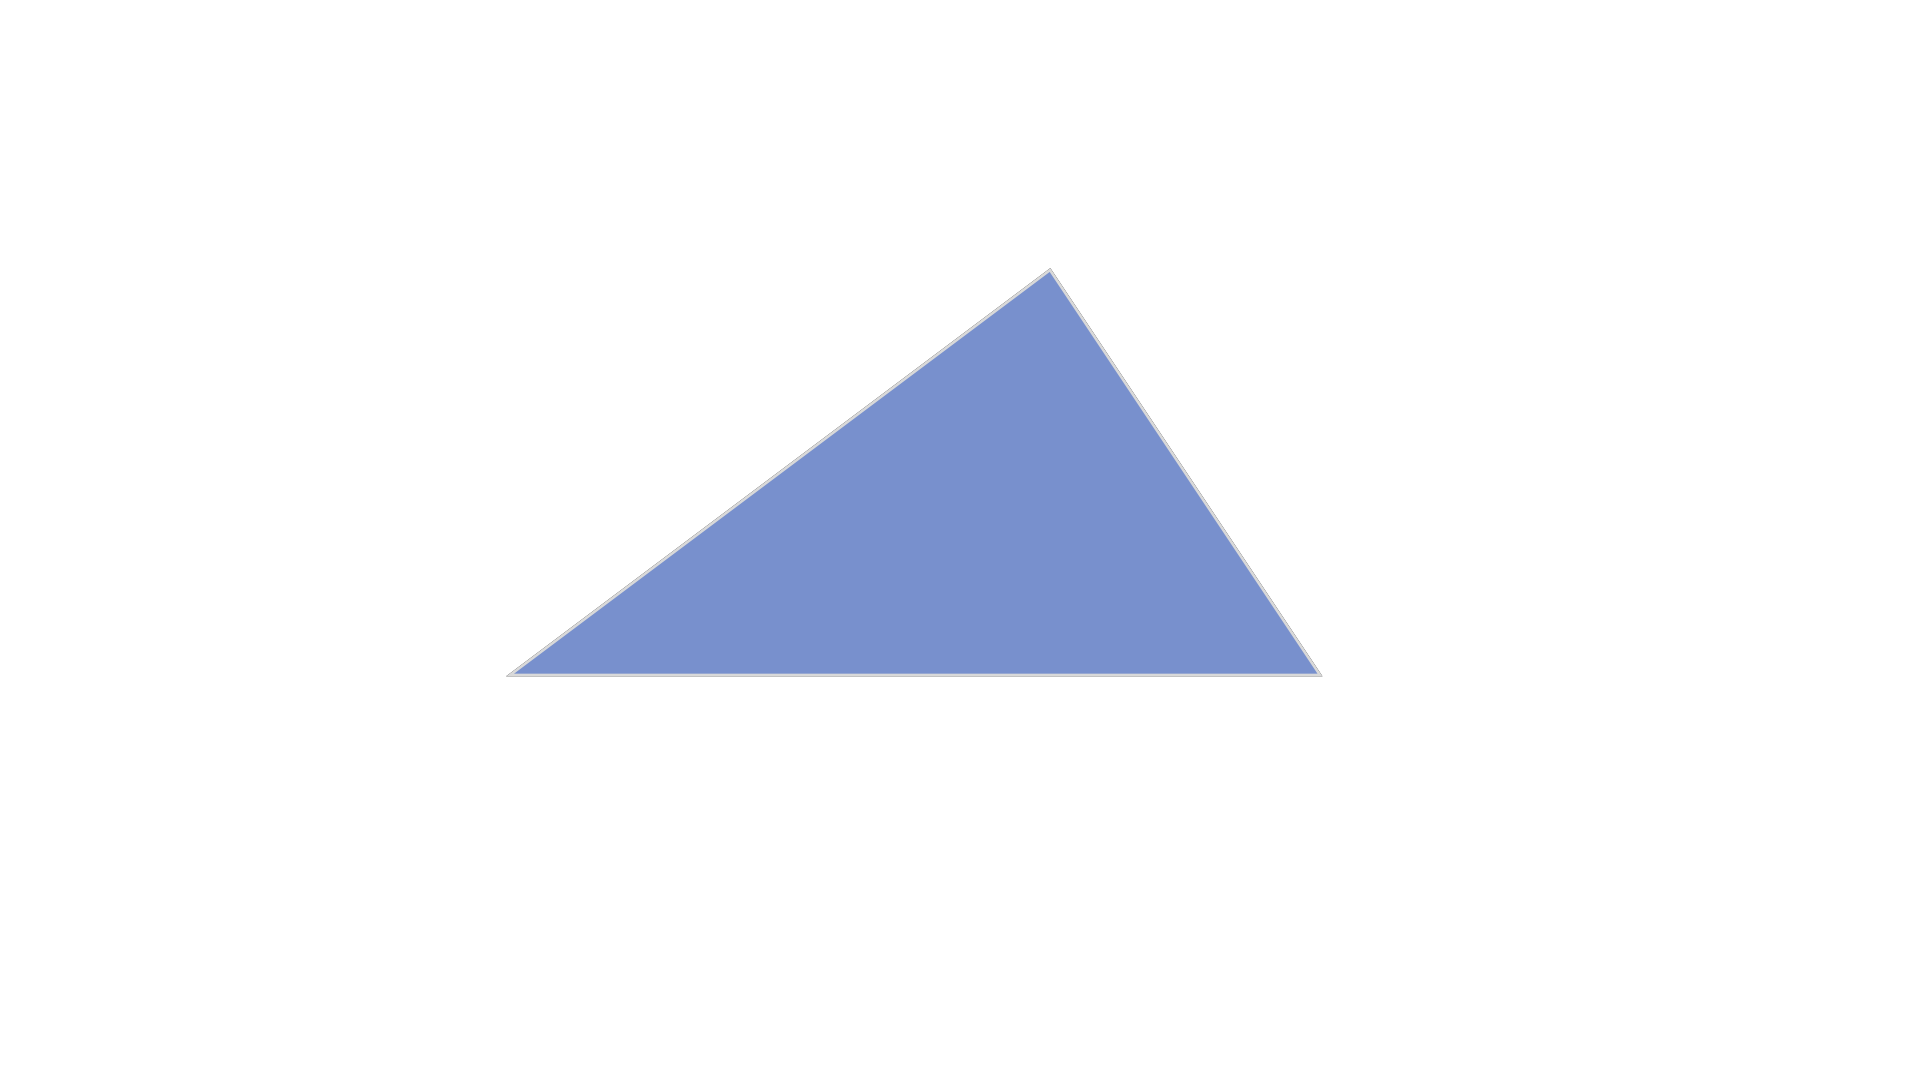
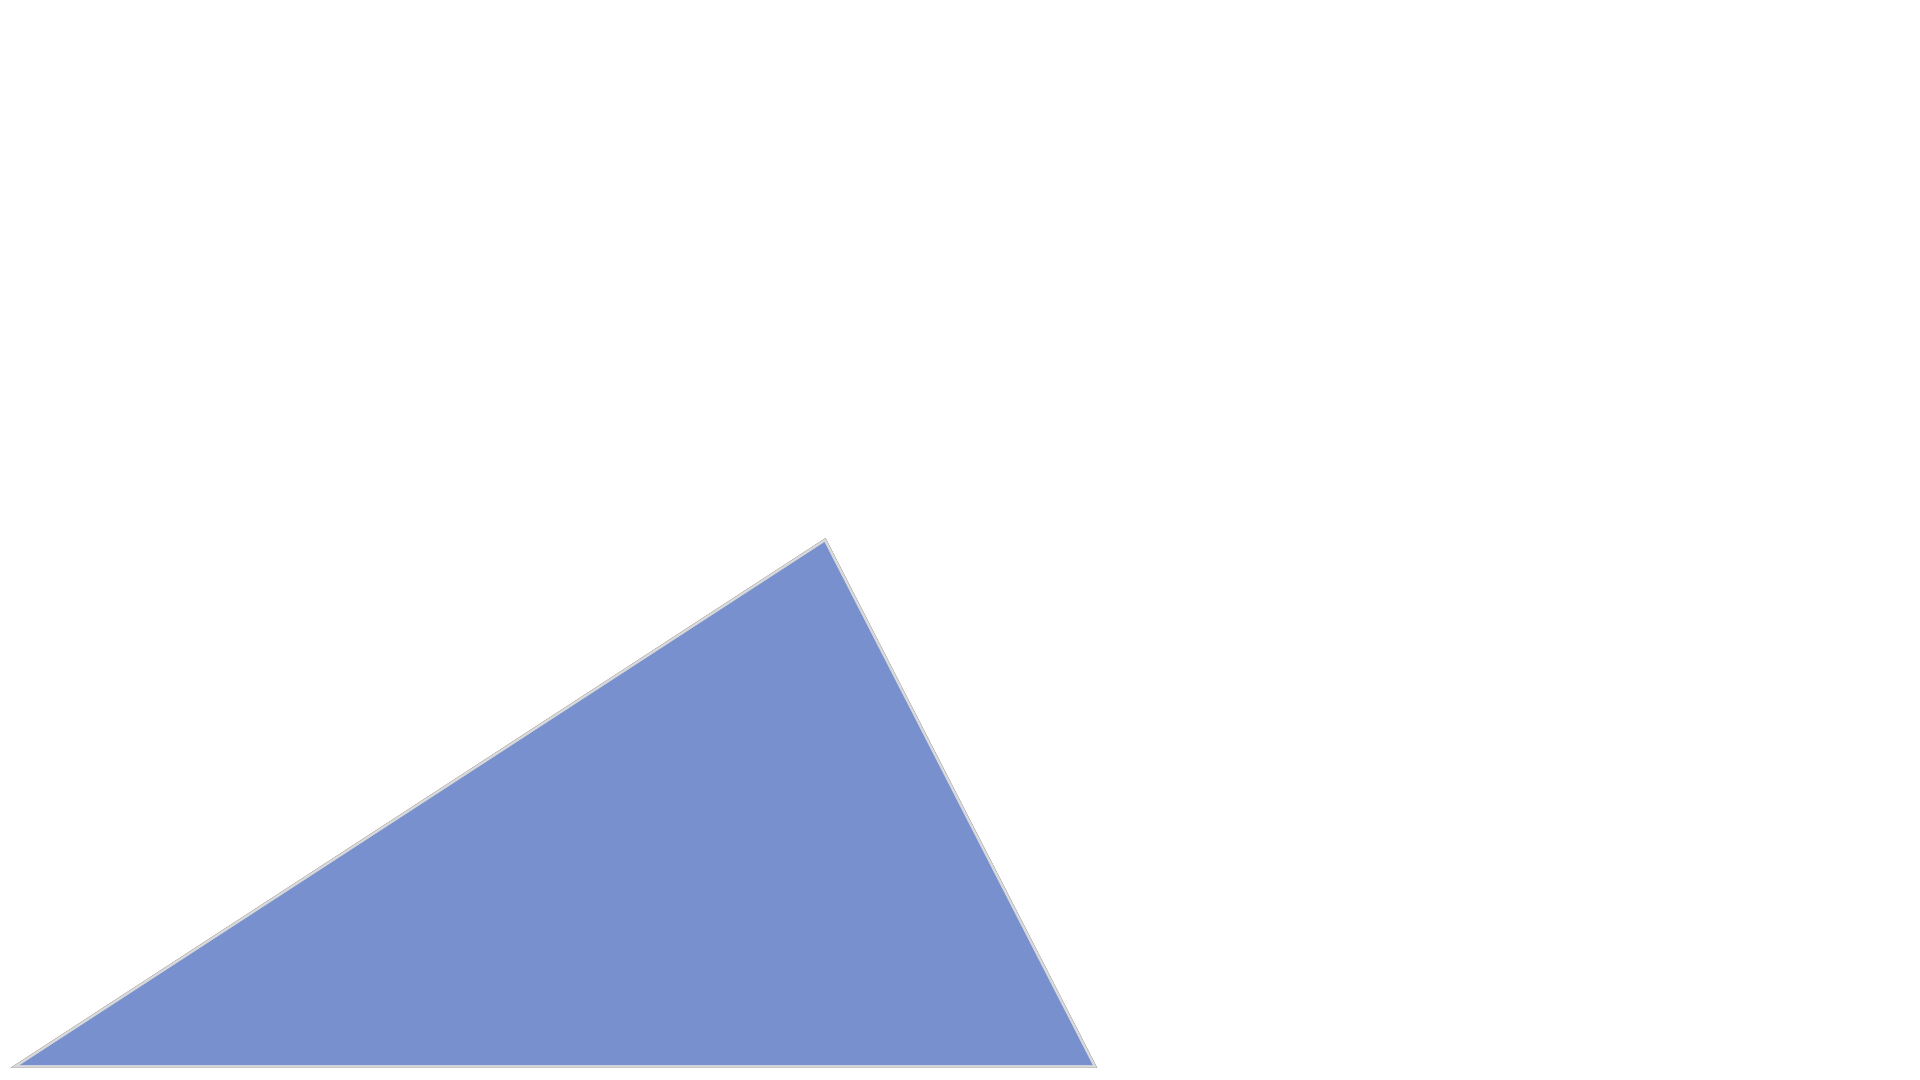
better fill the space

Changed region(s): [[0.0, 0.2444, 0.6875, 1.0]]

diff --git a/triangles.py b/triangles.py
@@ -6,15 +6,19 @@ def pt(x, y):
 
 
 def triangle(x):
+    maxy = 3.9
     polygon = Polygon(
-        pt(0, 0), pt(6, 0), pt(x, 3),
+        pt(0, 0), pt(8, 0), pt(x, maxy),
         fill_color='#7890CD',
         fill_opacity=1,
         stroke_color='#D9D9D9',
         stroke_width=2,
     )
-    return polygon.shift(-polygon.get_center_of_mass())
+    return polygon.shift(pt(-7, -maxy))
 
+
+# -7 to 7 x
+# -3.9 to 3.9 y
 
 class Right(Scene):
     def construct(self):
@@ -23,9 +27,9 @@ class Right(Scene):
 
 class Middle(Scene):
     def construct(self):
-        self.add(triangle(4))
+        self.add(triangle(6))
 
 
 class Obtuse(Scene):
     def construct(self):
-        self.add(triangle(9))
+        self.add(triangle(14))
